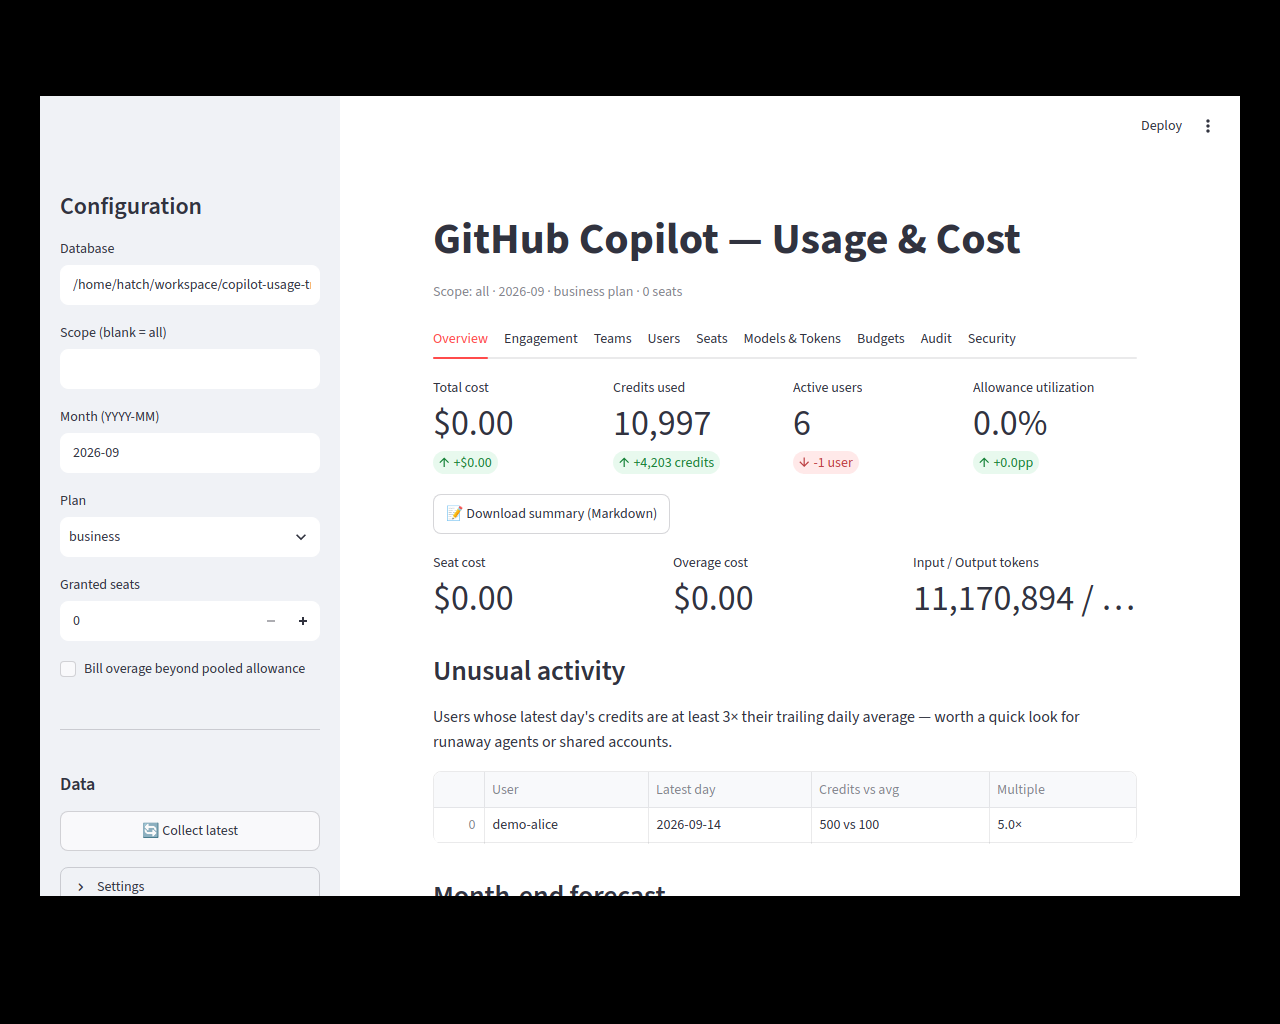
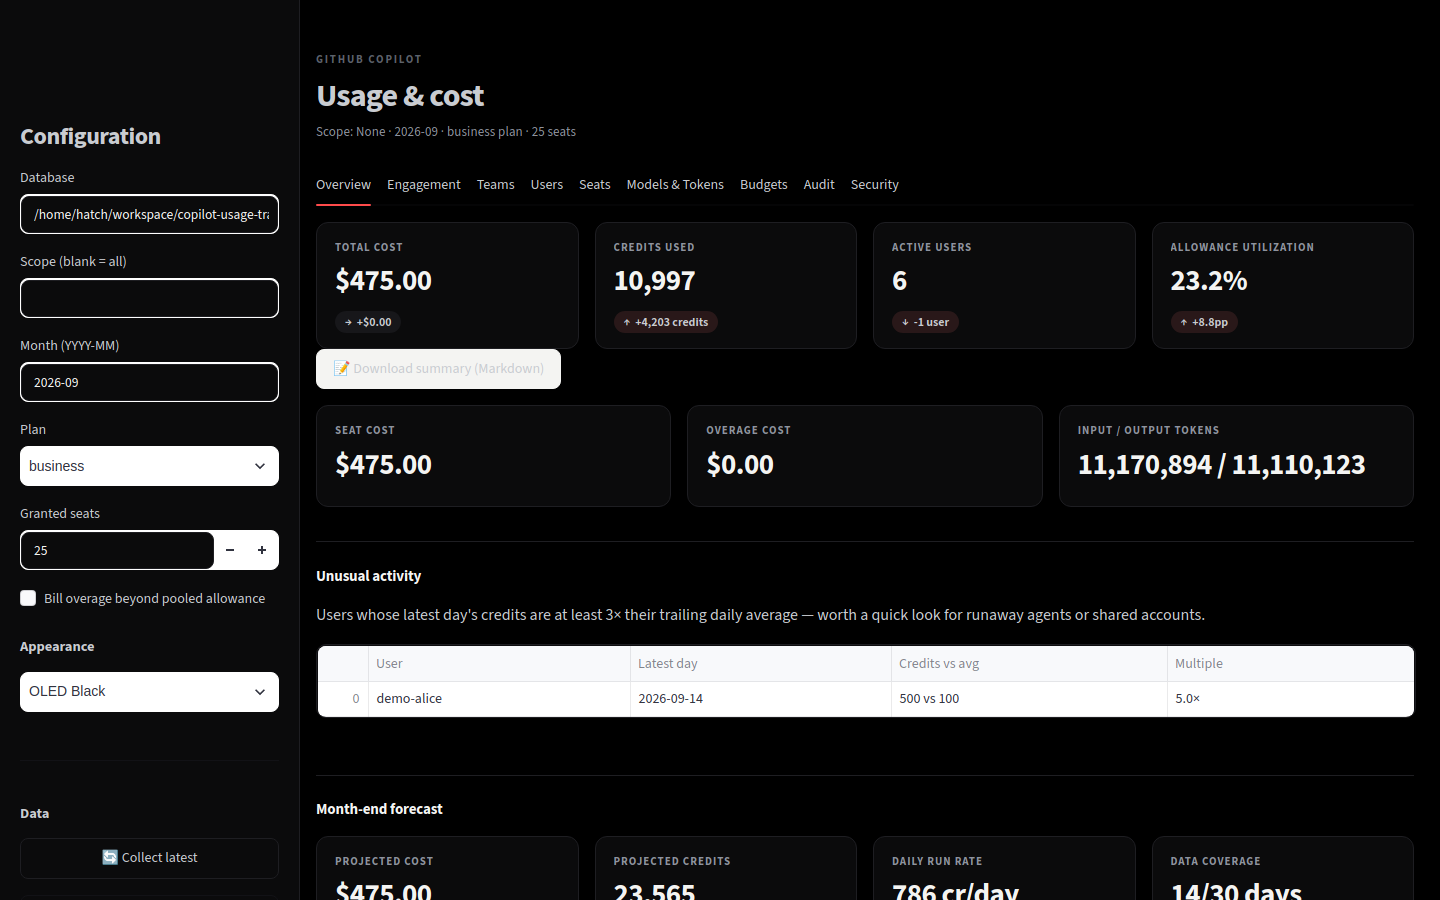
Refresh README screenshots in OLED Black theme; correct screenshot provenance note

diff --git a/README.md b/README.md
@@ -27,10 +27,10 @@ The Windows installer:
 ![Windows setup wizard: license agreement](docs/screenshots/installer-license.png)
 ![Windows setup wizard: installing](docs/screenshots/installer-progress.png)
 
-*Provenance: the setup and installer shots were captured on a genuine
-Windows machine during CI. The dashboard shots render fictional demo data
+*Provenance: the app screenshots render fictional demo data
 (`docs/screenshots/seed_demo.py`) in a headless browser — no real user
-data.*
+data. The installer shots were captured on a genuine Windows machine
+during CI.*
 
 ## Why now
 
